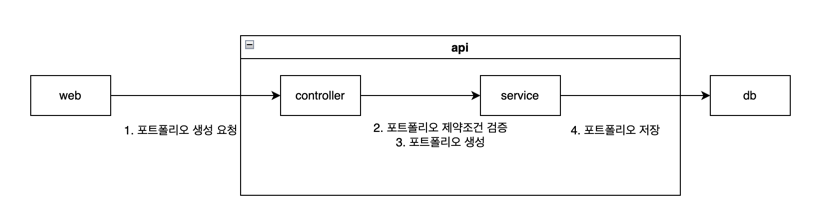
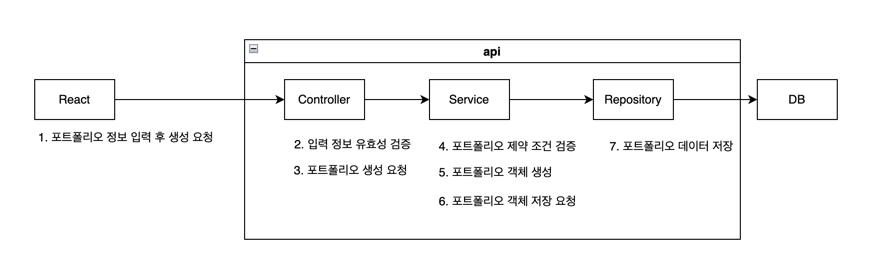
docs: 포트폴리오 종목 및 매입이력 추가 기능 설명

Changed region(s): [[0.0308, 0.1415, 0.984, 0.934], [0.492, 0.7358, 0.6765, 0.7925], [0.861, 0.5377, 0.984, 0.566]]

diff --git a/README.md b/README.md
@@ -77,15 +77,34 @@
 ![image](./img/create_portfolio.png)
 
 1. 회원은 포트폴리오 생성시 필요한 정보를 입력하고 생성을 요청합니다.
-2. 서버는 제출한 포트폴리오의 입력 정보의 유효성 및 제약 조건을 검증합니다.
-    - 사용자는 목록에 있는 증권사 목록 안에서만 선택
-    - 회원별로 각 포트폴리의 이름은 고유해야 하지만,다른 회원들의 포트폴리오 이름과는 중복될 수 있습니다.
-    - 포트폴리오의 목표수익금액은 예산보다 커야 하며, 최대손실금액은 예산보다 작아야 하는 제약조건을 만족해야 합니다.
-3. 유효성 및 제약 조건을 만족하면 포트폴리오를 생성합니다.
-4. 생성한 포트폴리오를 데이터베이스에 저장합니다.
+2. 입력 정보를 받은 컨트롤러에서 입력 정보의 유효성을 검증합니다.
+3. 컨트롤러에서 서비스로 포트폴리오의 생성을 요청합니다.
+4. 서비스는 포트폴리오의 제약 조건*을 검증합니다.
+    - *사용자는 목록에 있는 증권사 목록 안에서만 선택
+    - *회원별로 각 포트폴리의 이름은 고유해야 하지만,다른 회원들의 포트폴리오 이름과는 중복될 수 있습니다.
+    - *포트폴리오의 목표수익금액은 예산보다 커야 하며, 최대손실금액은 예산보다 작아야 하는 제약조건을 만족해야 합니다.
+5. 유효성 및 제약 조건을 만족하면 서비스는 포트폴리오 객체를 생성합니다.
+6. 서비스는 생성한 포트폴리오 객체를 저장소 전달하며 저장을 요청합니다.
+7. 저장소는 포트폴리오를 데이터베이스에 저장합니다.
+
+### 4.2 포트폴리오 종목 및 매입 이력 추가
+
+![image](./img/create_holding_purchase-history.png)
+
+1. 회원은 특정한 포트폴리오 페이지로 접속해서 포트폴리오 종목 및 매입 이력 정보를 입력하고 추가를 요청합니다.
+2. 입력 정보를 받은 컨트롤러에서 입력 정보의 유효성을 검증합니다.
+3. 컨트롤러에서 서비스로 포트폴리오 종목 및 매입 이력 추가를 요청합니다.
+4. 서비스는 포트폴리오 종목 및 매입 이력의 제약 조건*을 검증합니다.
+    - *포트폴리오의 잔고가 매입 이력을 추가하기에 충분한 금액이 있어야 합니다.
+    - *추가하고자 하는 종목이 데이터베이스 내에 존재해야 합니다.
+5. 서비스는 포트폴리오 종목 및 매입 이력 객체를 생성합니다.
+6. 서비스는 저장소에 포트폴리오 종목 및 매입 이력 데이터 저장을 요청합니다.
+7. 저장소는 포트폴리오 종목 및 매입 이력 데이터를 데이터베이스에 저장합니다.
 
 </div>
 </details>
+
+### 4.3 포트폴리오 종목 실시간 조회
 
 ## 5. 핵심 트러블 슈팅
 
